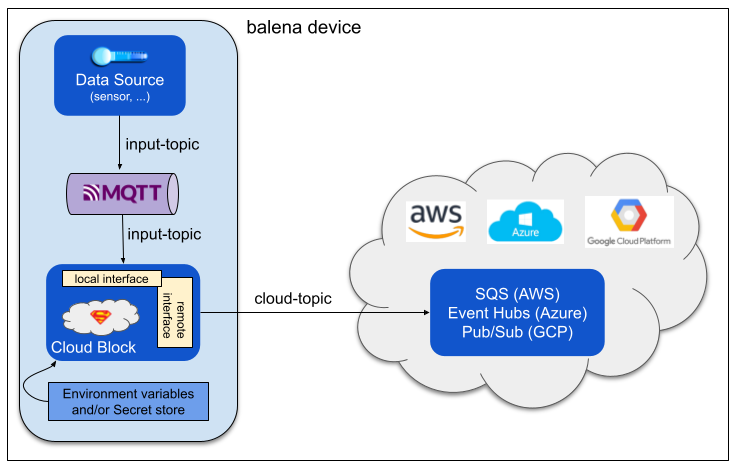
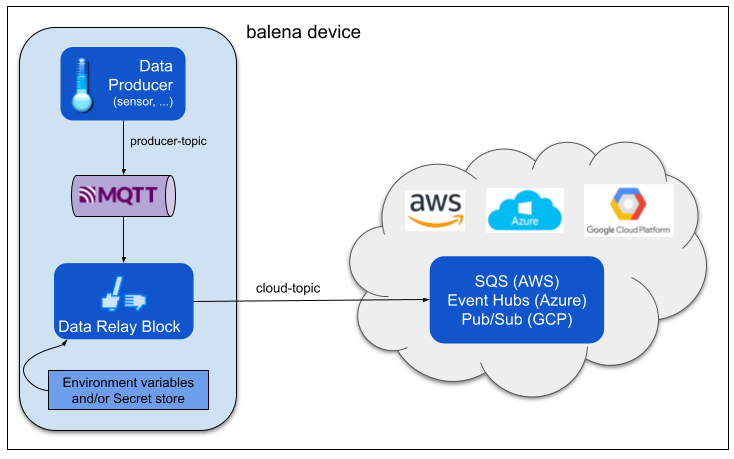
Update Getting Started doc page
Change-type: patch

diff --git a/docs/01-getting-started.md b/docs/01-getting-started.md
@@ -1,14 +1,13 @@
 # Getting Started
-This page provides a simple example use of the cloud block to help you get started. The diagram below shows how the cloud block forwards data to a cloud messaging service. On the left is a balena device with three containers, where a data source publishes data to MQTT on some input topic to which the cloud block subscribes on its local interface. The cloud block then applies the user supplied configuration to forward the data out the remote interface to the provider's message queue service -- whether it's AWS SQS, Azure Event Hubs, or Google Pub/Sub.
+This page provides a simple example use of the Data Relay block to help you get started. The diagram below shows how the Data Relay block forwards data to a cloud messaging service. On the left is a balena device with three containers, where a data producer publishes data to MQTT on some topic to which the Data Relay block subscribes. The Data Relay block then applies a user supplied configuration to forward the data out to the provider's message queue service -- whether it's AWS SQS, Azure Event Hubs, or Google Pub/Sub.
 
 ![message-app](https://raw.githubusercontent.com/kb2ma/data-relay/landr_for_data_relay/docs/images/message-app.png)
 
 Follow these steps to implement the data flow in the diagram.
 
- 1. Define data source and cloud block services for balena device
- 1. Create balena application and environment variables
- 1. Push service definitions to balenaCloud
- 1. Provision device
+ 1. Define a data producer and Docker Compose script for the services on the device
+ 1. Create a balena application and configure variables
+ 1. Push the Compose script to build and run the containers for the app
 
 In this example we use a data source that takes temperature readings from the device's CPU. These readings are readily available and do not require hardware or software setup.
 
@@ -16,26 +15,25 @@ We send these readings to AWS Simple Queue Service (SQS) as JSON data messages. 
 
 ## Define device services
 
-As shown in the diagram above, our goal is to push data to a source topic on an MQTT broker on the balena device. We then wire the cloud block to subscribe to the source topic. See the [example application](https://github.com/kb2ma/data-relay/tree/landr_for_data_relay/examples/cputemp) for the CPU temperature reader that does just that.
+As shown in the diagram above, our first goal is to push data to a producer topic on an MQTT broker on the balena device. We then wire the Data Relay block to subscribe to the producer topic. See the [CPU Temperature](https://github.com/kb2ma/data-relay/tree/landr_for_data_relay/examples/cputemp) application for an example that does just that.
 
-As shown in the [docker-compose.yml](https://github.com/kb2ma/data-relay/blob/landr_for_data_relay/examples/cputemp/docker-compose.yml) for our example application, you must define three services, also shown in the table below.
+As shown in the [Docker Compose](https://github.com/kb2ma/data-relay/blob/landr_for_data_relay/examples/cputemp/docker-compose.yml) script for our example application, you must define three services, also shown in the table below.
 
 | Service    | Notes                                                                                                                                                       |
 |------------|-------------------------------------------------------------------------------------------------------------------------------------------------------------|
-| data_source|Your service to generate data and publish to an MQTT topic                                                                                                   |
-| mqtt       |Generic broker service, like [eclipse-mosquitto](https://hub.docker.com/_/eclipse-mosquitto)                                                                   |
-| cloud      |                                                                                         balena block service that subscribes to `data_source` service messages|
+| data_source|Your service to produce data and publish to an MQTT topic                                                                                                   |
+| mqtt       |Generic broker implementation, like [eclipse-mosquitto](https://hub.docker.com/_/eclipse-mosquitto)                                                                   |
+| data_relay      |                                                                                         balena block service that subscribes to `data_source` messages|
 
-Later, you will push these service definitions to balena cloud. Of course you may wish to push the services locally during development, as described in the balena Develop Locally instructions.
+Later you will push these service definitions to balenaCloud as a balena application. Alternatively you may push the services to your device locally during development, as described in the balena [Develop Locally](https://www.balena.io/docs/learn/develop/local-mode/) instructions.
 
-### Data source topic
-For our example application, [data_source/main.py](https://github.com/kb2ma/data-relay/blob/landr_for_data_relay/examples/cputemp/cputemp/main.py) takes a temperature reading every 30 seconds, and publishes the reading to the *cpu_temp* MQTT topic. We must adapt the cloud block to subscribe to the *cpu_temp* topic used by the data source. By default the cloud block subscribes to the topic *cloud-input*. The default may be overridden by defining an environment variable, as shown in the next section.
+### Data producer topic
+For our example application, [data_source/main.py](https://github.com/kb2ma/data-relay/blob/landr_for_data_relay/examples/cputemp/cputemp/main.py) takes a temperature reading every 30 seconds, and publishes the reading to the *cpu_temp* MQTT topic. We will adapt the Data Relay block to subscribe to the *cpu_temp* topic used by the data source in the next section.
 
-## Create application
-From your balenaCloud account, create a Microservices or Starter application as described in the balena [Getting Started](https://www.balena.io/docs/learn/getting-started/raspberrypi3/nodejs/) instructions. Next, you must define environment variables for the application that configure the cloud block, as described here. The example here uses the AWS Simple Queue Service. To use the Azure or Google Cloud message queues, see the [Message Queues](message-queues) setup page.
+## Create balena application
+From your balenaCloud account, create a Microservices or Starter application as described in the balena [Getting Started](https://www.balena.io/docs/learn/getting-started/raspberrypi3/nodejs/) instructions. Next, you must define variables for the application that configure the Data Relay block. The example here uses the AWS Simple Queue Service. To use the Azure or Google Cloud message queues, see the [Message Queues](message-queues) setup page.
 
 ### SQS variables
-These variables are specific to use of the AWS SQS service.
 
 | Variable         | Notes                                                                             |
 |------------------|-----------------------------------------------------------------------------------|
@@ -44,21 +42,21 @@ These variables are specific to use of the AWS SQS service.
 |AWS_SQS_ACCESS_KEY|IAM access key ID                                                                  |
 |AWS_SQS_SECRET_KEY|IAM secret key for access key                                                      |
 
-We assume you define the variables as balena Environment Variables. You also may define them in a Secret store as described on the [Configuration](configuration#configuration-via-secret-store) page.
+We assume you define the variables as balena application Variables. You also may define them in a Secret store as described on the [Configuration](configuration#configuration-via-secret-store) page.
 
 See the [SQS Developer Guide](https://docs.aws.amazon.com/AWSSimpleQueueService/latest/SQSDeveloperGuide/welcome.html) for help setting up the queue service. See the [IAM User Guide](https://docs.aws.amazon.com/IAM/latest/UserGuide/index.html) for help setting up the identity. The IAM User must at least be assigned the SQS *SendMessage* permission.
 
-### Cloud block variables
-These variables configure the cloud block on the balena device. They do not depend on the cloud provider.
+### Data Relay block variables
+These variables configure the Data Relay block on the balena device. They do not depend on the cloud provider.
 
-| Variable              | Notes                                                                                                                                             |
-|-----------------------|---------------------------------------------------------------------------------------------------------------------------------------------------|
-|LOCAL_MQTT_INPUT_TOPIC |MQTT topic to which the cloud block subscribes for messages from the data source. Identified as *input-topic* in the architecture diagram above. Defaults to `cloud-input`. Requires `cpu_temp` in the example application. |
-|DAPR_DEBUG       |Define as `1` to write debug messages to the *cloud* service log                                                                                                   |
+| Variable              | Required? | Notes                                                                                                                                             |
+|----------------------- | ----------- | ---------------------------------------------------------------------------------------------------------------------------------------- |
+|LOCAL_MQTT_INPUT_TOPIC | **Y** |MQTT topic to which the Data Relay block subscribes for messages from the data source. Identified as *producer-topic* in the architecture diagram above. Defaults to `cloud-input`. Requires `cpu_temp` in the example application. |
+|DAPR_DEBUG       | N |Define as `1` to write debug messages to the *data_relay* service log                                                                                                   |
 
-## Push app to balenaCloud and provision device
-Once you have defined the application, you may push the service definitions created above to balenaCloud with the `balena push <app-name>` CLI command. See the balena Getting Started instructions for details.
+## Push app to balenaCloud
+Once you have defined the application, you may push the service definitions created above to balenaCloud with the `balena push <app-name>` CLI command. See the balena [Getting Started](https://www.balena.io/docs/learn/getting-started/raspberrypi3/nodejs/#add-release) instructions for details.
 
-Finally, provision a device with the application you created! When the application runs with the DAPR_DEBUG variable defined, the log  shows data being pushed to the cloud, like below:
+After a device has downloaded the app services, its log should show data being pushed to the cloud, like below.
 
 ![cputemp-log](https://raw.githubusercontent.com/kb2ma/data-relay/landr_for_data_relay/docs/images/cputemp-log.png)

diff --git a/docs/index.md b/docs/index.md
@@ -1,1 +1,1 @@
-Cloud service providers like AWS offer valuable tools for collection and management of data, like message queues and data storage, but often setup and use of these services is specific to the cloud provider. At balena our mission is to reduce friction for our fleet owners. So we provide a *cloud block* container, whose aim is to provide a simple, consistent interface to these services, configured by environment variables.
+Cloud service providers like AWS offer valuable tools for collection and management of data, like message queues and data storage, but often setup and use of these services is specific to the cloud provider. At balena our mission is to reduce friction for our fleet owners. So we provide a *Data Relay block* container, whose aim is to provide a simple, consistent interface to these services, configured by environment variables.
